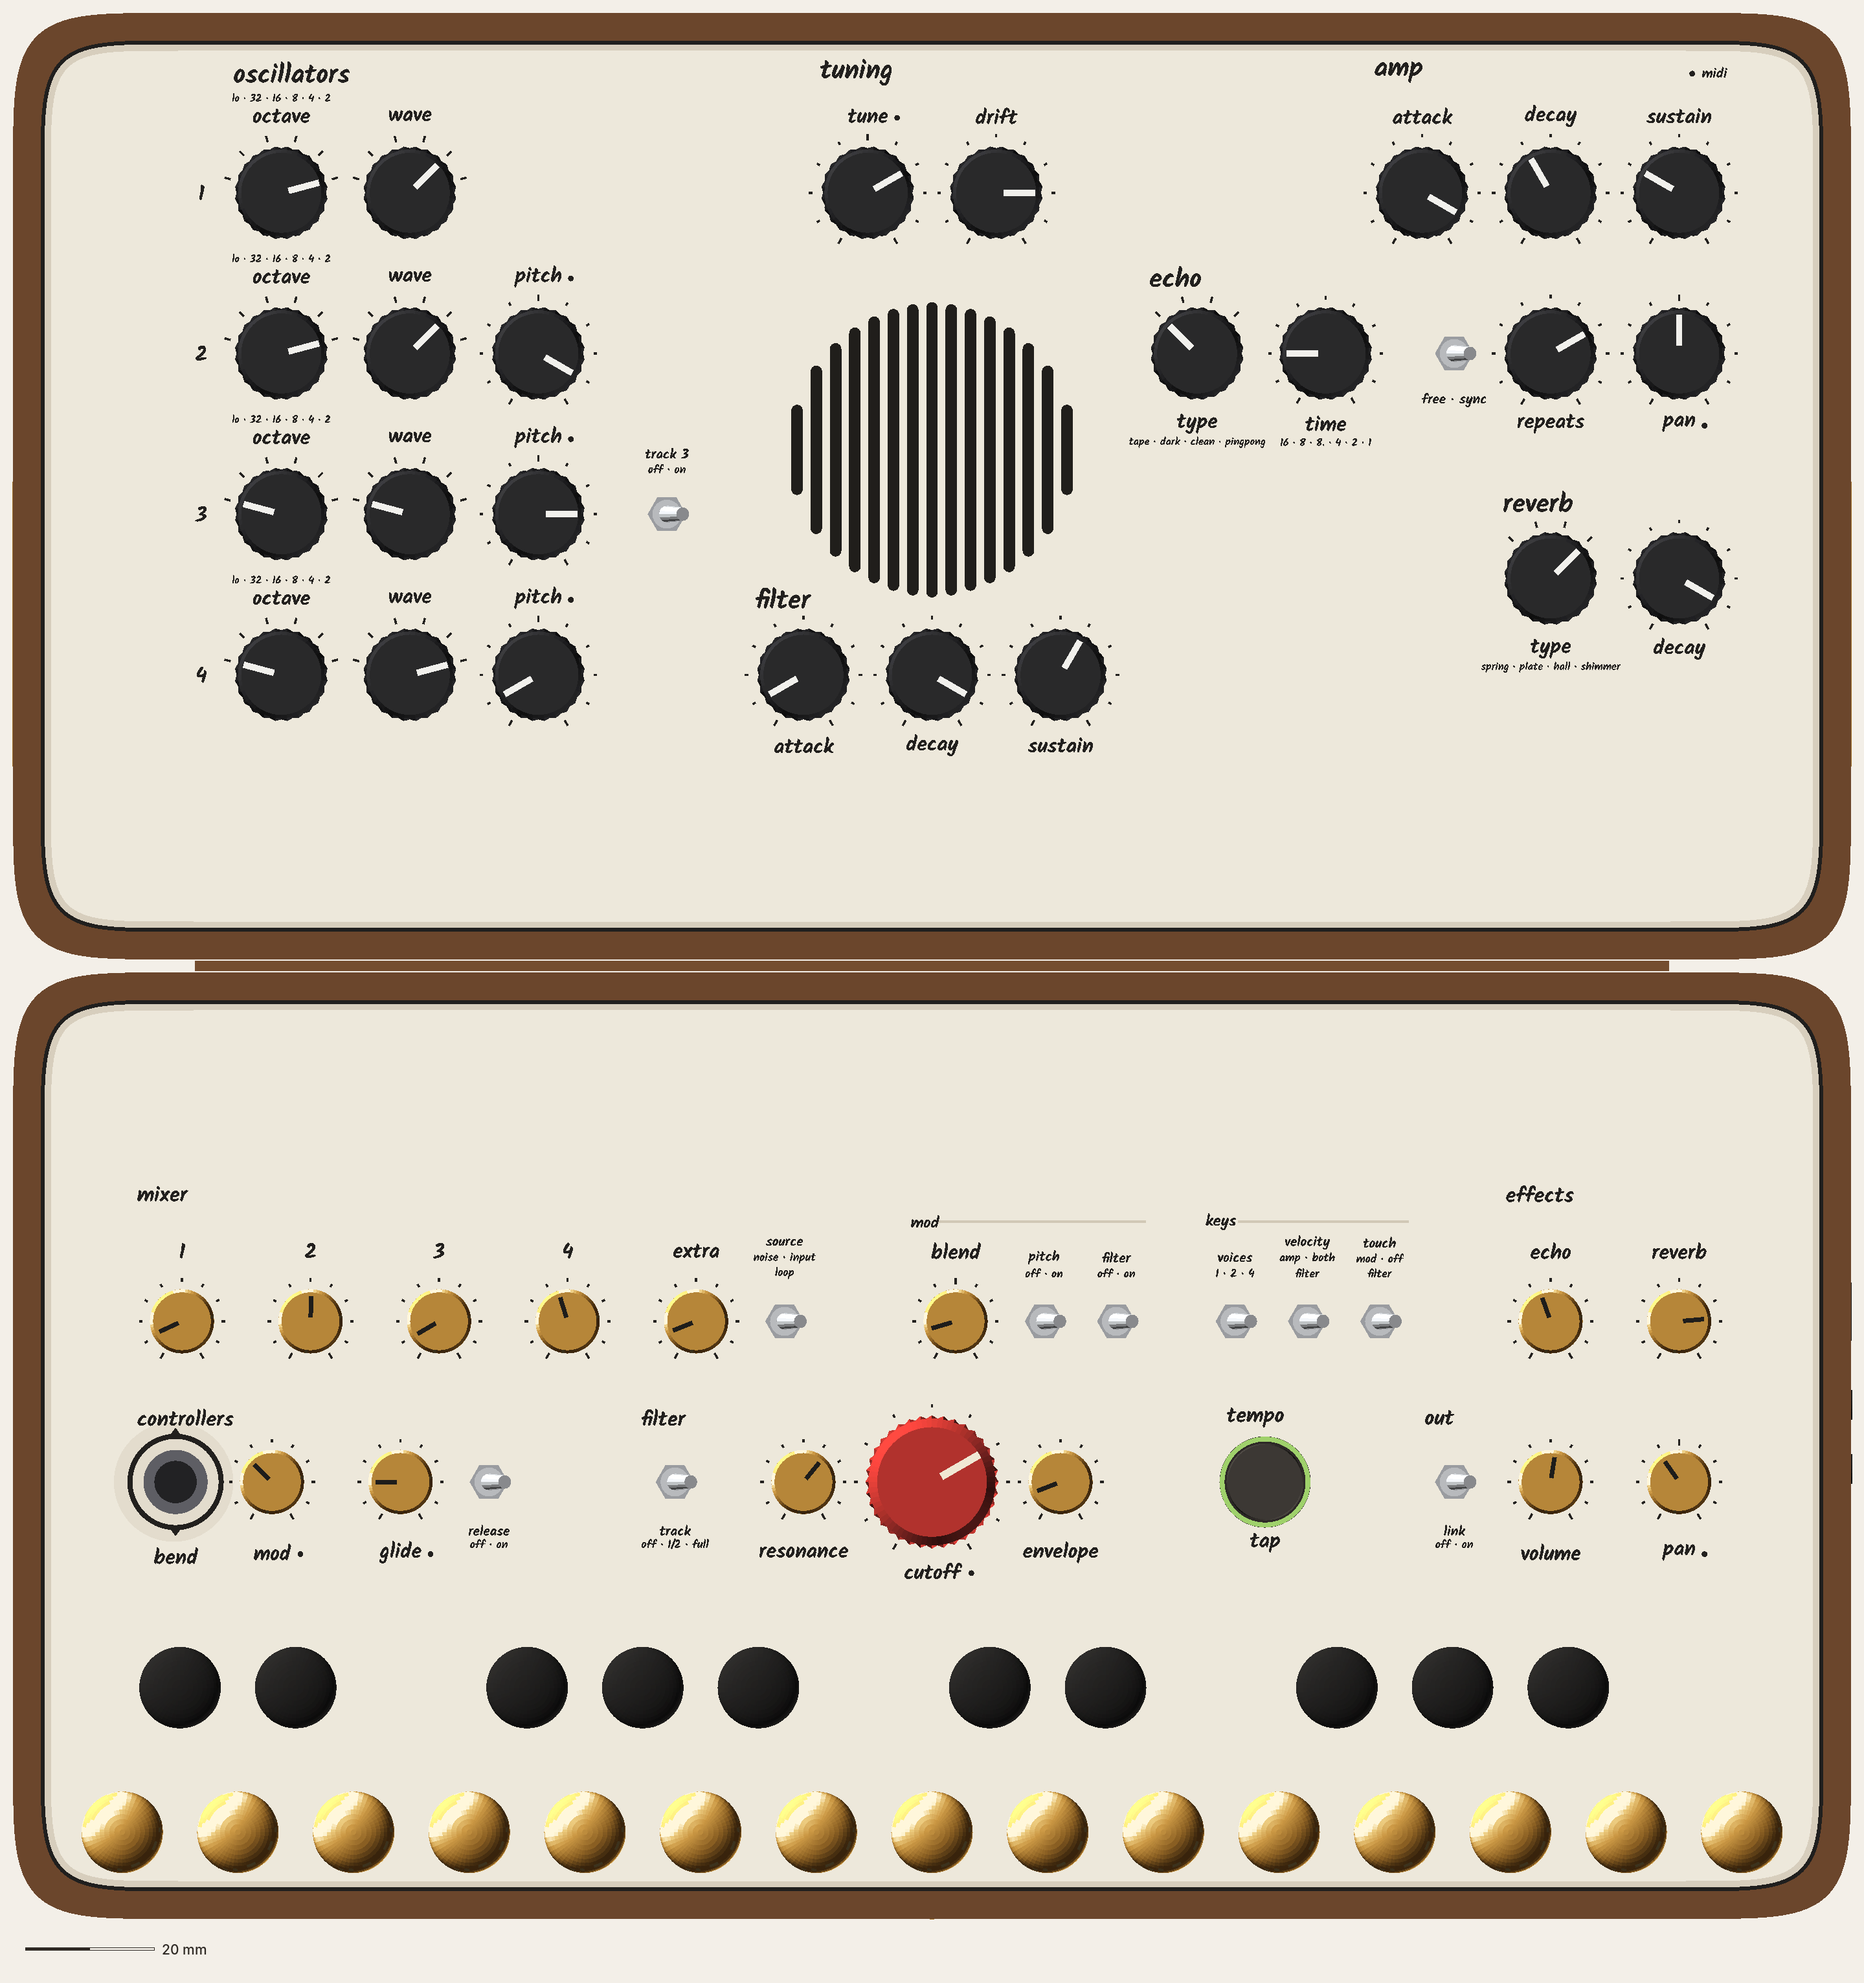
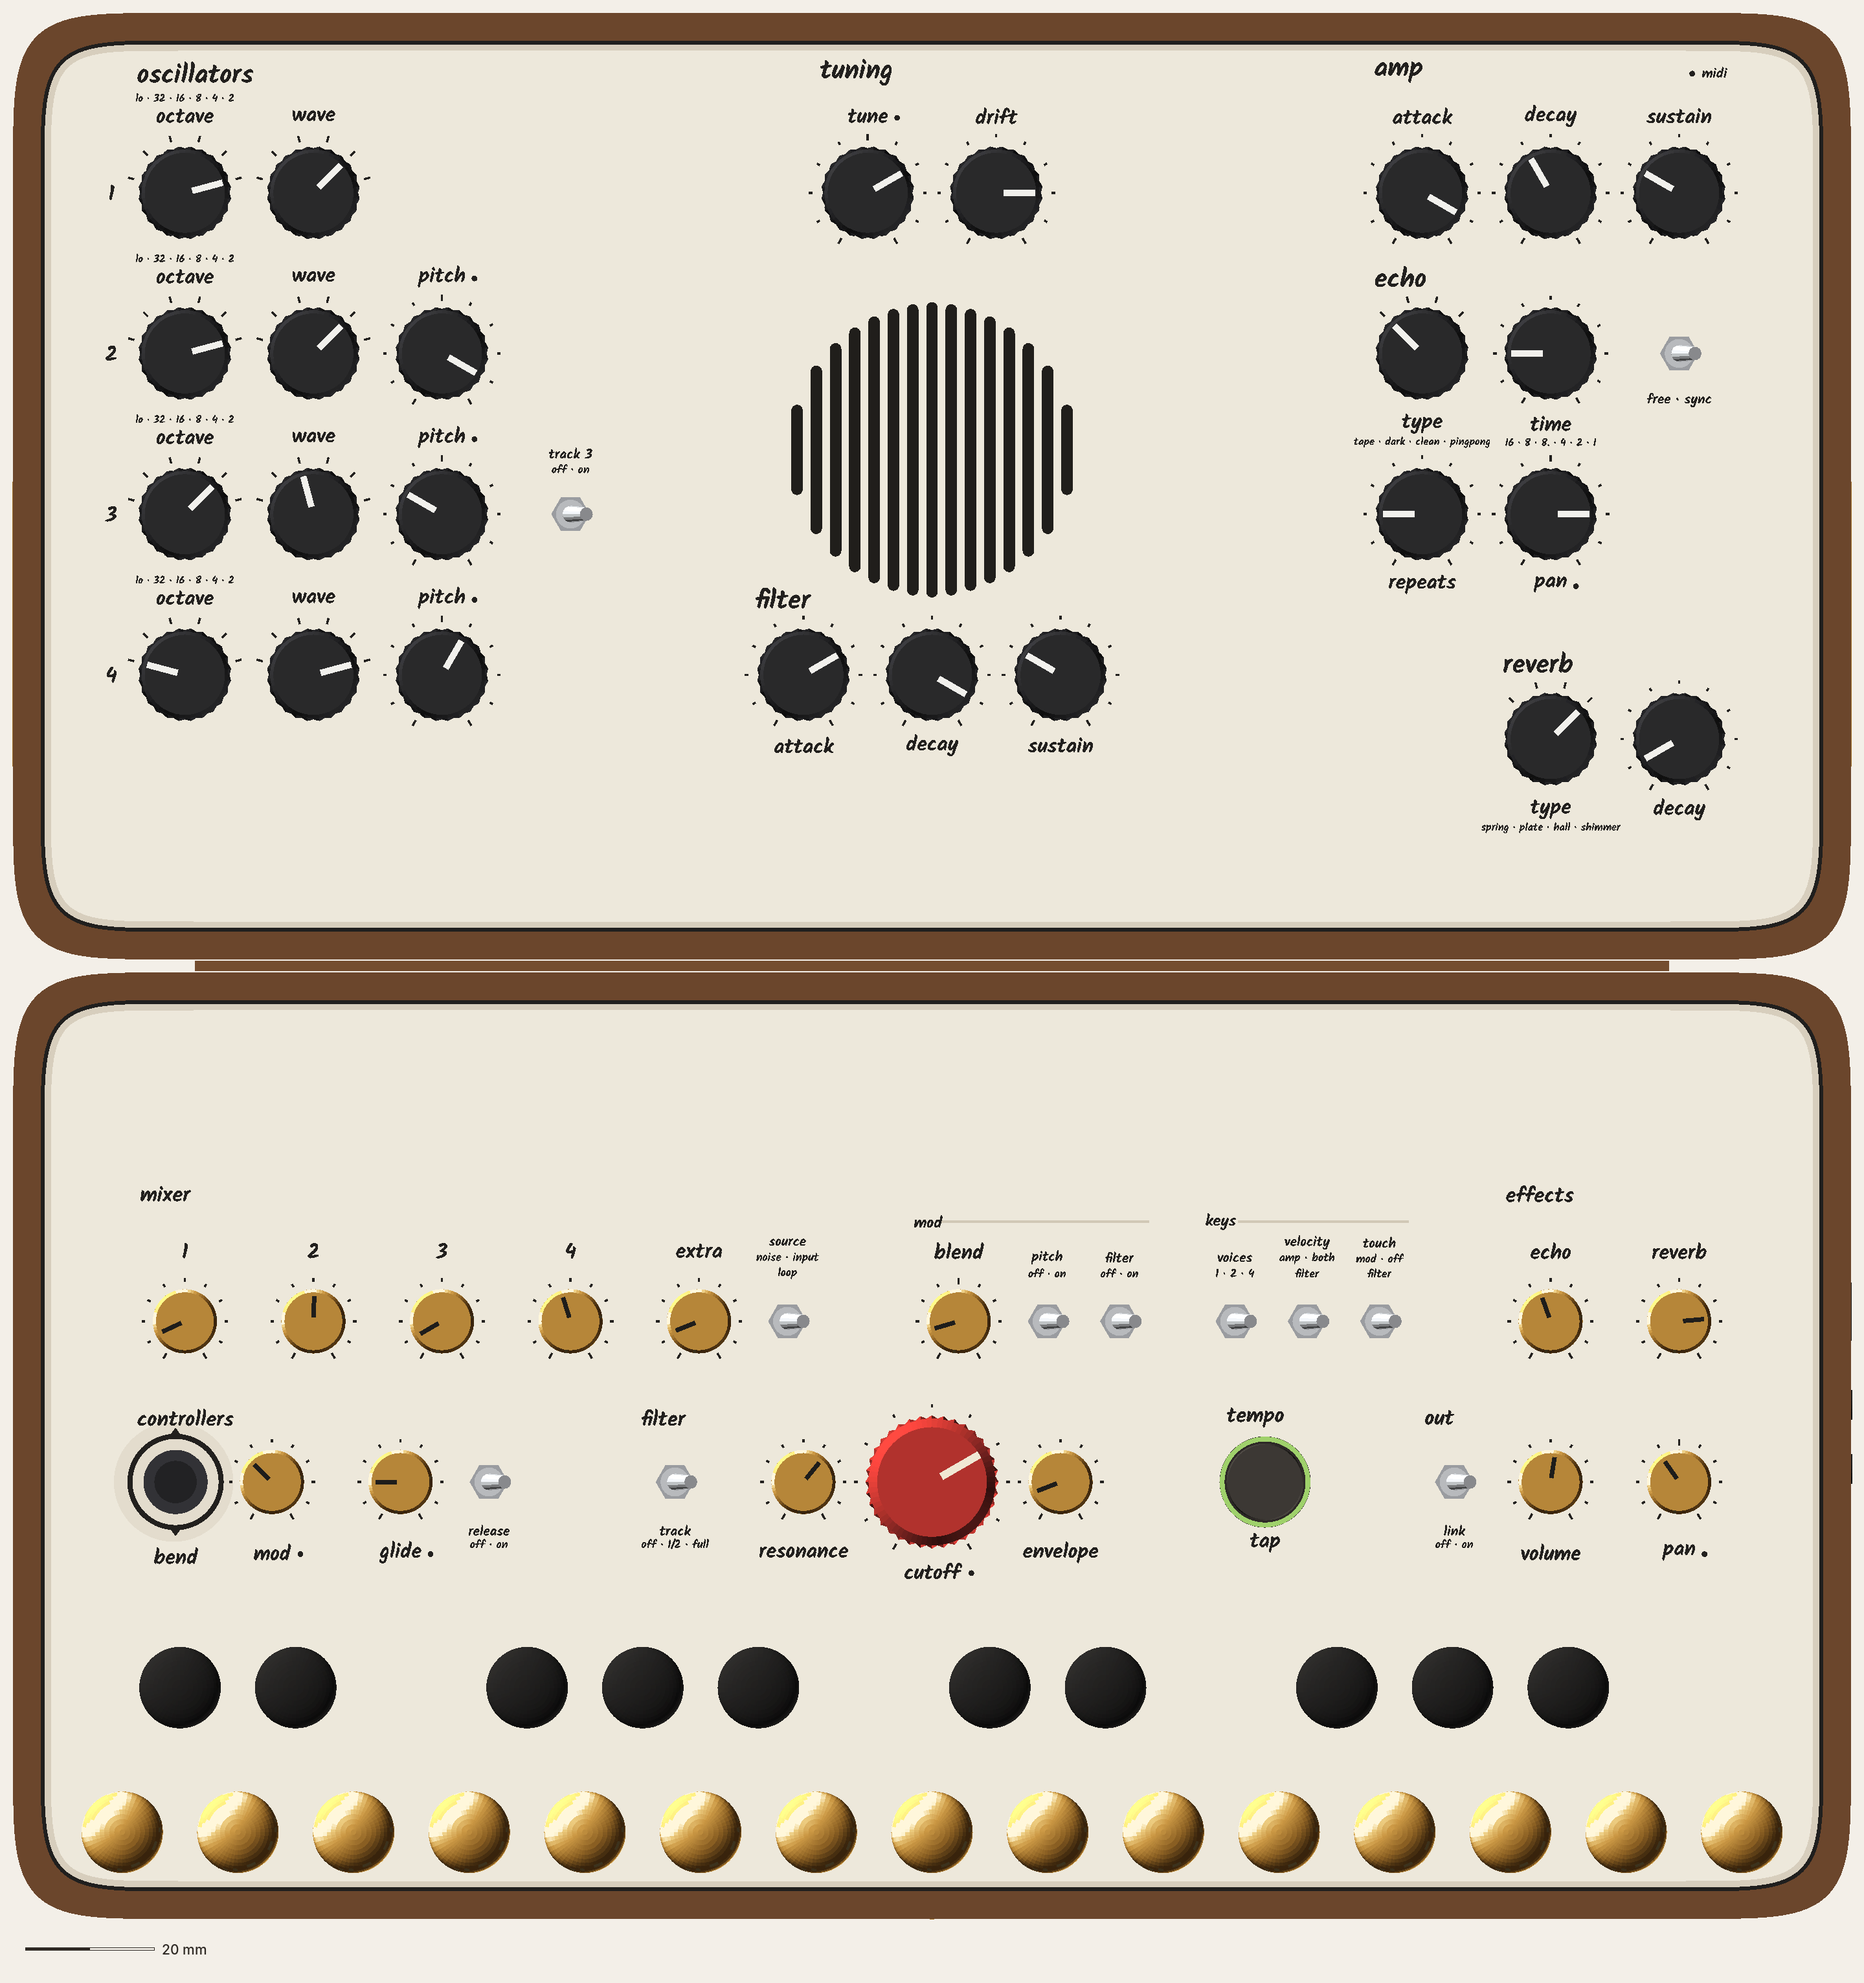
CATHEDRAL T2 fixed and T4 (8dfdbf0), visual: tops and standing, stick lowered for both, gaps kept; look doc; real-Kalam 0

diff --git a/design/concepts/_mock-src/rb.py b/design/concepts/_mock-src/rb.py
@@ -2192,7 +2192,7 @@ class Nave(Cathedral):
                 s += txt(x, top - hn - 0.9 - hp / 2, z, pos, lc.NS, ink, font=st.font)
                 continue
             if n == "BEND stick":
-                if getattr(lc, "VARIANT", "") in P5O_FAMILY:   # steer 5: P5O's octave 2 lands 1.6 from it closed, so it's
+                if getattr(lc, "VARIANT", "") in P5O_FAMILY + ("T2", "T4"):   # steer 5: P5O's octave 2 (and T2 / T4, 8dfdbf0) lands 1.6 from it closed, so it's
                     s += stick_low(x, y, z, ink)          #   lowered to 9.0 (systems §19.4) for R-LOW's 55.2
                 else:
                     s += joystick(x, y, z, ink)  # steer 4 (systems §18.3): nothing on the lid lands over it now, so no lowering
@@ -2317,6 +2317,8 @@ def jobs(SZ):
         **{f"rb_s11_P5RS{v}_top": (lambda v=v: (lambda n: top4(n.model(True), f"rb_s11_P5RS{v}_top", -2, -2, W + 2, 2 * n.D + 4, px_per_mm=8, grain_classes=()))(nave_env("P5RS", CATHEDRAL_RS_TUNING=v))) for v in "ab"},
         **{f"rb_s11_P5RS{v}_stand": (lambda v=v: (lambda n: shot4(n.model("stand"), fp_rect(0, 0, W, n.D + 64), f"rb_s11_P5RS{v}_stand", size=SZ, az=-32, el=24, dist=860, center=(143, n.D * 0.6, 58), grain_classes=(), wood=True) and relight(os.path.join(OUT, f"rb_s11_P5RS{v}_stand.png")))(nave_env("P5RS", CATHEDRAL_RS_TUNING=v))) for v in "ab"},
         **{f"rb_s12_{v}_top": (lambda v=v: (lambda n: (top_tall if n.D > 140 else top4)(n.model(True), f"rb_s12_{v}_top", -2, -2, W + 2, 2 * n.D + 4, px_per_mm=9.96 if n.D > 140 else 8, grain_classes=()))(Nave(lid=v, spine="dark"))) for v in ("T1", "T2", "T3")},
+        "rb_s13_T4_top": lambda: (lambda n: top4(n.model(True), "rb_s13_T4_top", -2, -2, W + 2, 2 * n.D + 4, px_per_mm=8, grain_classes=()))(Nave(lid="T4", spine="dark")),
+        "rb_s13_T4_stand": lambda: (lambda n: shot4(n.model("stand"), fp_rect(0, 0, W, n.D + 64), "rb_s13_T4_stand", size=SZ, az=-32, el=24, dist=860, center=(143, n.D * 0.6, 58), grain_classes=(), wood=True) and relight(os.path.join(OUT, "rb_s13_T4_stand.png")))(Nave(lid="T4", spine="dark")),
         **{f"rb_s12_{v}_stand": (lambda v=v: (lambda n: shot4(n.model("stand"), fp_rect(0, 0, W, n.D + 64), f"rb_s12_{v}_stand", size=SZ, az=-32, el=24, dist=860 if n.D < 140 else 900, center=(143, n.D * 0.6, 58 if n.D < 140 else 62), grain_classes=(), wood=True) and relight(os.path.join(OUT, f"rb_s12_{v}_stand.png")))(Nave(lid=v, spine="dark"))) for v in ("T1", "T2", "T3")},
         "rb_s8_P5OBD_top": lambda: (lambda n: top_tall(n.model(True), "rb_s8_P5OBD_top", -2, -2, W + 2, 2 * n.D + 4, px_per_mm=9.96, grain_classes=()))(nave_env("P5OBD", CATHEDRAL_D="145", CATHEDRAL_VCO4="1")),
         "rb_s7_P5OB_top": lambda: (lambda n: top4(n.model(True), "rb_s7_P5OB_top", -2, -2, W + 2, 2 * n.D + 4, px_per_mm=8, grain_classes=()))(Nave(lid="P5OB", spine="dark")),

diff --git a/design/branches/concepts/cathedral/how-it-looks-and-feels.md b/design/branches/concepts/cathedral/how-it-looks-and-feels.md
@@ -47,7 +47,7 @@ Owner, 16:19: "yes these categories look correct. *now* let's try and lay these 
 </figure>
 <figure>
 <img src="img/cathedral-s12-T2-top-9.9px-per-mm.png" alt="Exact top view of T2 open flat at D 147.3: four oscillators stacked at the lid's left, tuning over the window, amp top right, echo and reverb on the right, filter envelope under the window; the base with the mixer 1 to 4.">
-<figcaption><b>T2</b>: 4 oscillators, double-square face, D 147.3. T1's plan with the bank's fourth row and mixer 4. 3 gaps.</figcaption>
+<figcaption><b>T2, fixed</b> (8dfdbf0): 4 oscillators, double-square face, D 147.3. The oscillators sit on the margin with the mixer exactly under them; echo in two rows, reverb over its level. 1 gap. The stick is lowered to 9.0 to close at 55.2.</figcaption>
 </figure>
 <figure>
 <img src="img/cathedral-s12-T3-top-9.9px-per-mm.png" alt="Exact top view of T3 open flat: three oscillators stacked at the lid's left with tuning under them, the filter contour and amp sharing the top row, echo and reverb on the right, and an open area under the window.">
@@ -58,6 +58,13 @@ Owner, 16:19: "yes these categories look correct. *now* let's try and lay these 
 <figure><img src="img/cathedral-s12-T3-standing.jpg" alt="T3 standing at 120 degrees."><figcaption>T3, standing.</figcaption></figure>
 </div>
 
+<figure>
+<img src="img/cathedral-s13-T4-top-9.9px-per-mm.png" alt="Exact top view of T4 open flat: oscillators 1 to 3 stacked at the lid's left with tune and drift in VCO 1's row under tuning; amp across the top centre and the filter envelope at the bottom centre, framing the slotted window; echo at the top right and reverb at the bottom right. Base: rear row mod (blend, pitch, filter) and keys switches, the mixer over the filter, the effect levels; front row controllers, filter round the red cutoff, tempo, out.">
+<figcaption><b>T4, the critic's merged layout</b> (8dfdbf0): 3 oscillators, √5, D 132. Amp over the window and the filter contour under it, over CUTOFF; echo top right, reverb bottom right. On the base, mod sits over bend · mod with keys beside it, and the mixer over the filter. The stick is lowered to 9.0. 6 gaps, kept.</figcaption>
+</figure>
+<figure><img src="img/cathedral-s13-T4-standing.jpg" alt="T4 standing at 120 degrees."><figcaption>T4, standing.</figcaption></figure>
+
+- **T4, by eye:** the most resolved of the four. The two contours frame the speaker (amp above, filter below and over CUTOFF), so the window is the centre of a composition rather than a hole. The two effects stack at the right like the oscillators at the left. Its gaps are the open corners between those blocks; they read as breathing room, not holes. Real Kalam 0, the director's tests 0.
 - **By eye:** T3 reads most like a synth's top row (both contours together, the Model D's own pairing), but it leaves the window's lower field empty. T1 / T2 put the filter contour under the window, nearest the base's filter group (rule H), at the cost of splitting the two contours. T2 is T1 with the fourth oscillator. Its deeper face carries the extra row without crowding.
 
 ### P5RS-a and P5RS-b (systems §31.3, 7394af9): his choice by eye
